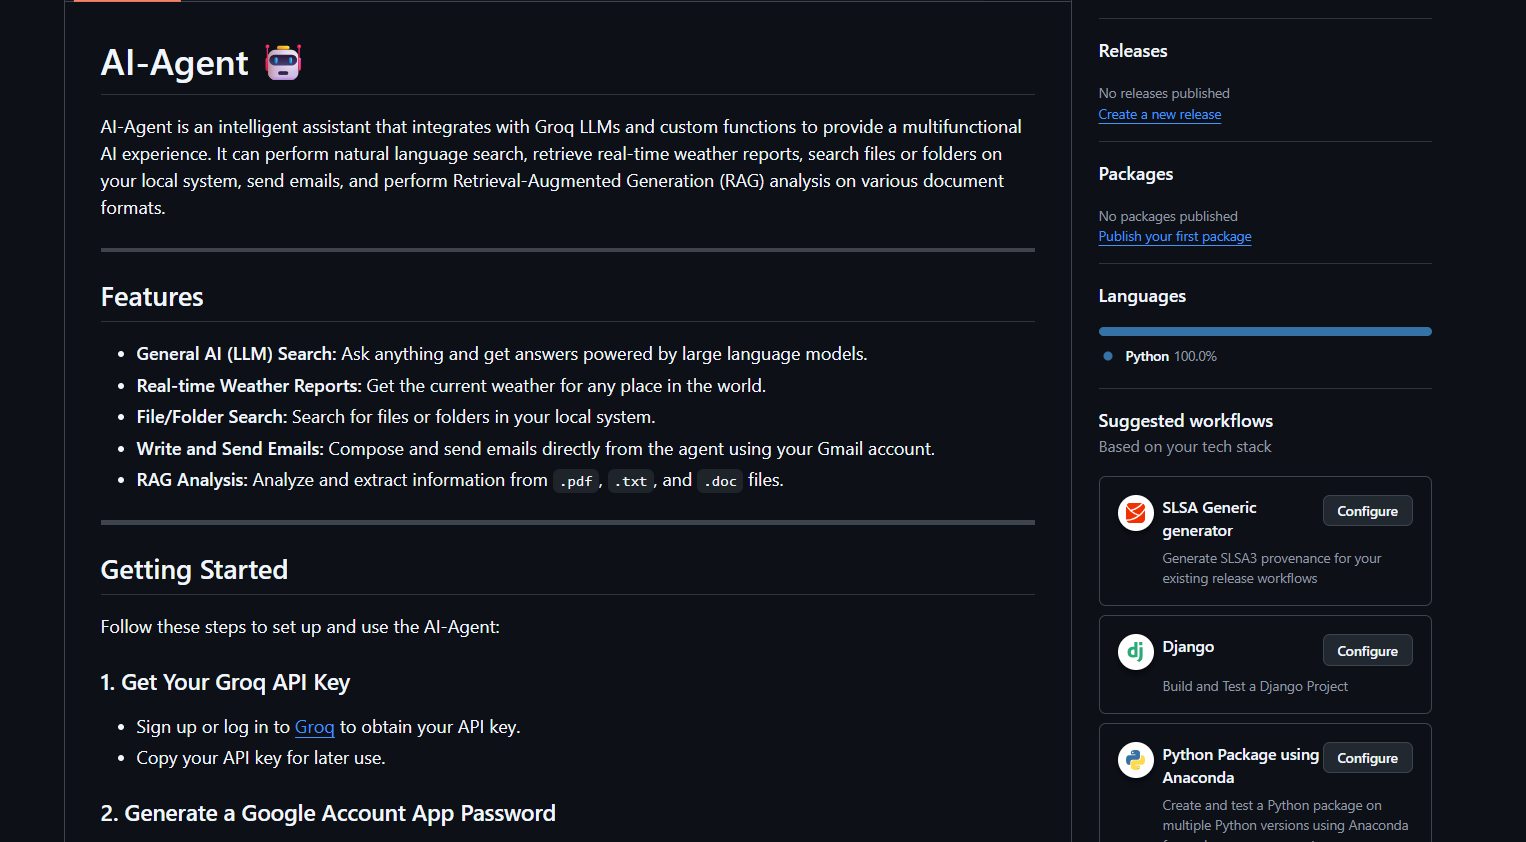
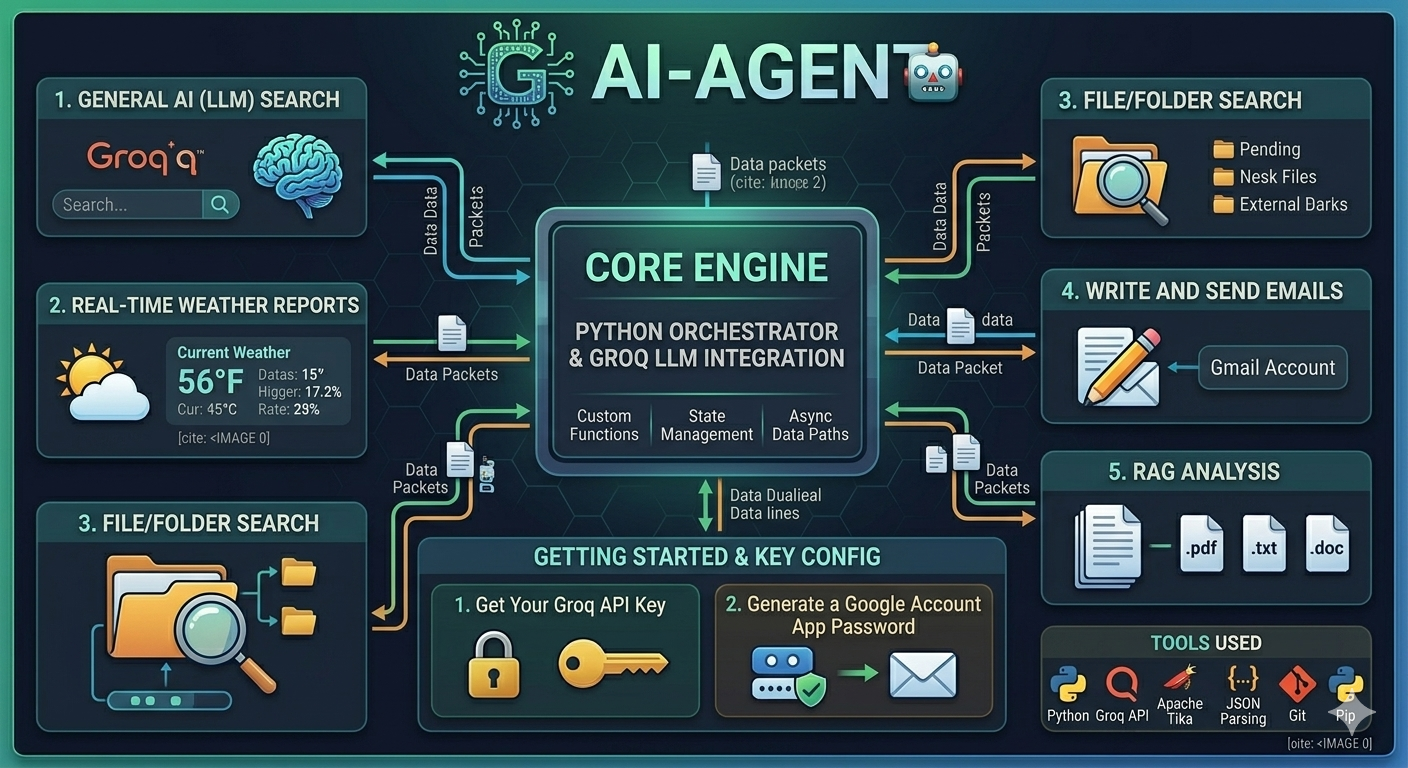
Updated the project and its images

diff --git a/lib/data.ts b/lib/data.ts
@@ -3,10 +3,10 @@ import { CgWorkAlt } from "react-icons/cg";
 import { FaReact } from "react-icons/fa";
 import { LuGraduationCap } from "react-icons/lu";
 import bigbrain from "@/public/bigBrain.png"
-import SpringBoot_GraphQl from "@/public/SpringBoot_GraphQl.png";
-import SelfCorrectingRag from "@/public/SelfCorrectingRag.png";
-import SecurePeer2Peer from "@/public/SecurePeer2Peer.png"
-import AI_Agent from "@/public/AI_Agent.png";
+import SpringBoot_GraphQl from "@/public/graphql.png";
+import SelfCorrectingRag from "@/public/self_correcting_rag.png";
+import SecurePeer2Peer from "@/public/secure_peer2peer_upi_project.png"
+import AI_Agent from "@/public/ai_agent.png";
 
 export const links = [
     {
@@ -74,7 +74,7 @@ export const projectsData = [
     {
         title: "Self-Correcting Agentic RAG Pipeline",
         description:
-            "A production-grade enterprise API engineered in Spring Boot that orchestrates autonomous Guardrail and Evaluator agents over a multi-tenant vector database to programmatically critique, validate, and self-correct LLM responses against raw source documents to eliminate hallucinations.",
+            "A Spring Boot API that uses autonomous LLM agents to programmatically critique and self-correct answers against a vector database to eliminate hallucinations.",
         tags: ["Java", "Spring Boot", "Spring AI", "Vector Database", "Chroma DB", "Ollama", "Large Language Models(LLM)", "Docker"],
         imageUrl: SelfCorrectingRag,
         link: "https://github.com/Aritra-Basak/self-correcting-rag-spring-ai",
@@ -82,7 +82,7 @@ export const projectsData = [
     {
         title: "Secure Peer-to-Peer UPI Wallet System",
         description:
-            "A banking-grade REST API simulating a digital wallet that utilizes pessimistic database locking to eliminate concurrent `double-spend` race conditions and leverages the Saga Orchestrator Pattern to handle distributed network timeouts with automated compensating refunds.",
+            "A banking-grade REST API that uses pessimistic locking to prevent double-spend race conditions and the Saga Pattern to handle network timeouts with automated refunds.",
         tags: ["Java", "Spring Boot", "Concurrency", "RESTful API", "Optimistic Locking", "Pessimistic Locking", "Saga Orchestrator Pattern"],
         imageUrl: SecurePeer2Peer,
         link: "https://github.com/Aritra-Basak/spring-boot-upi-wallet",
